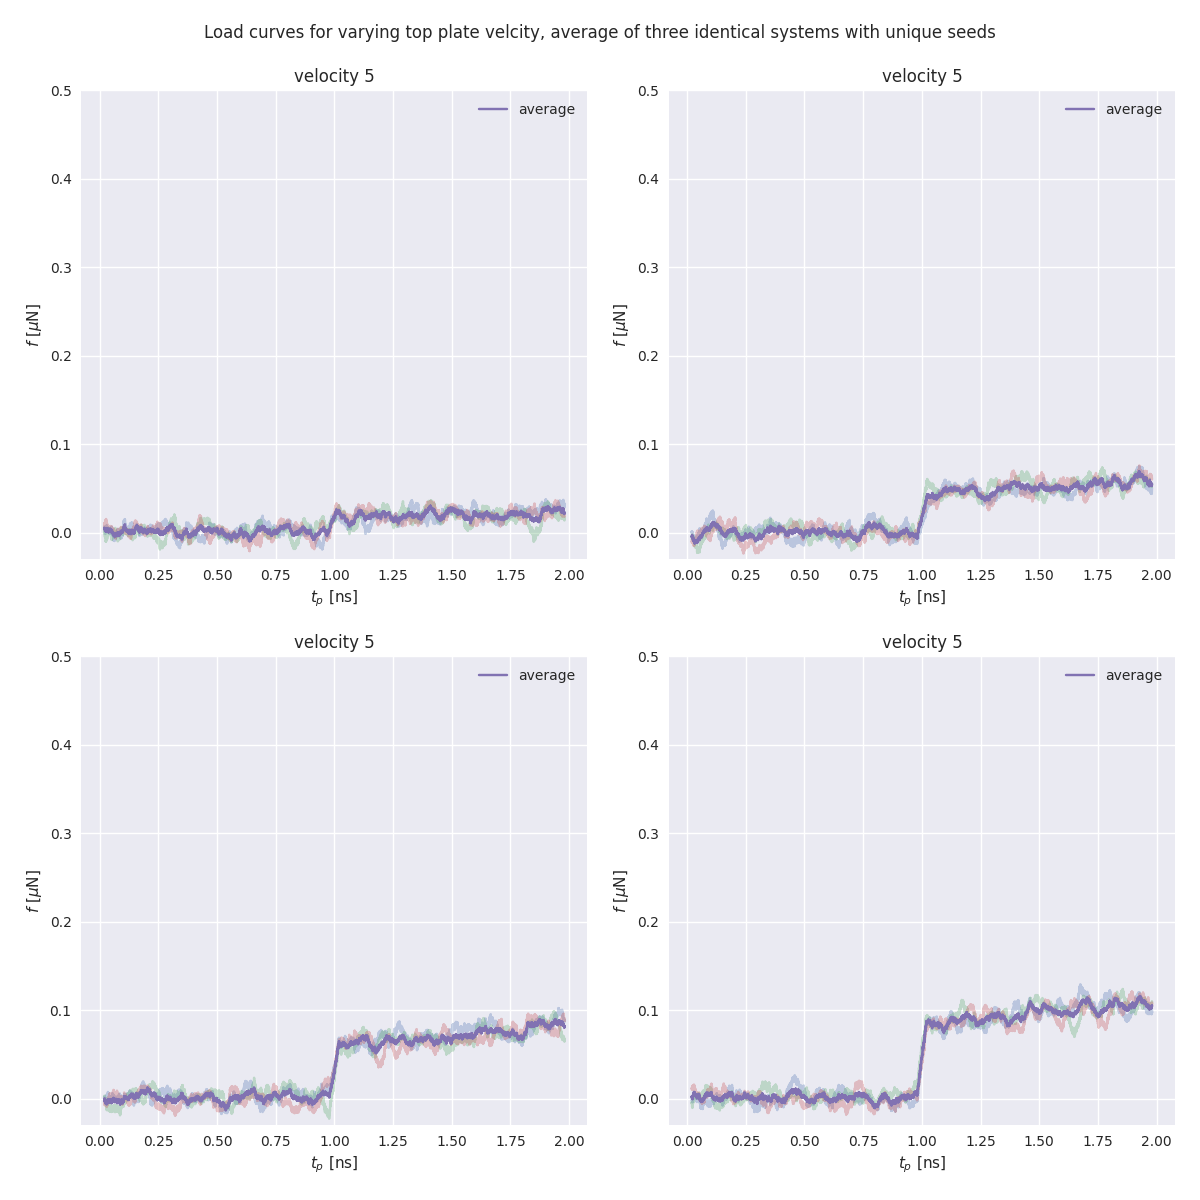
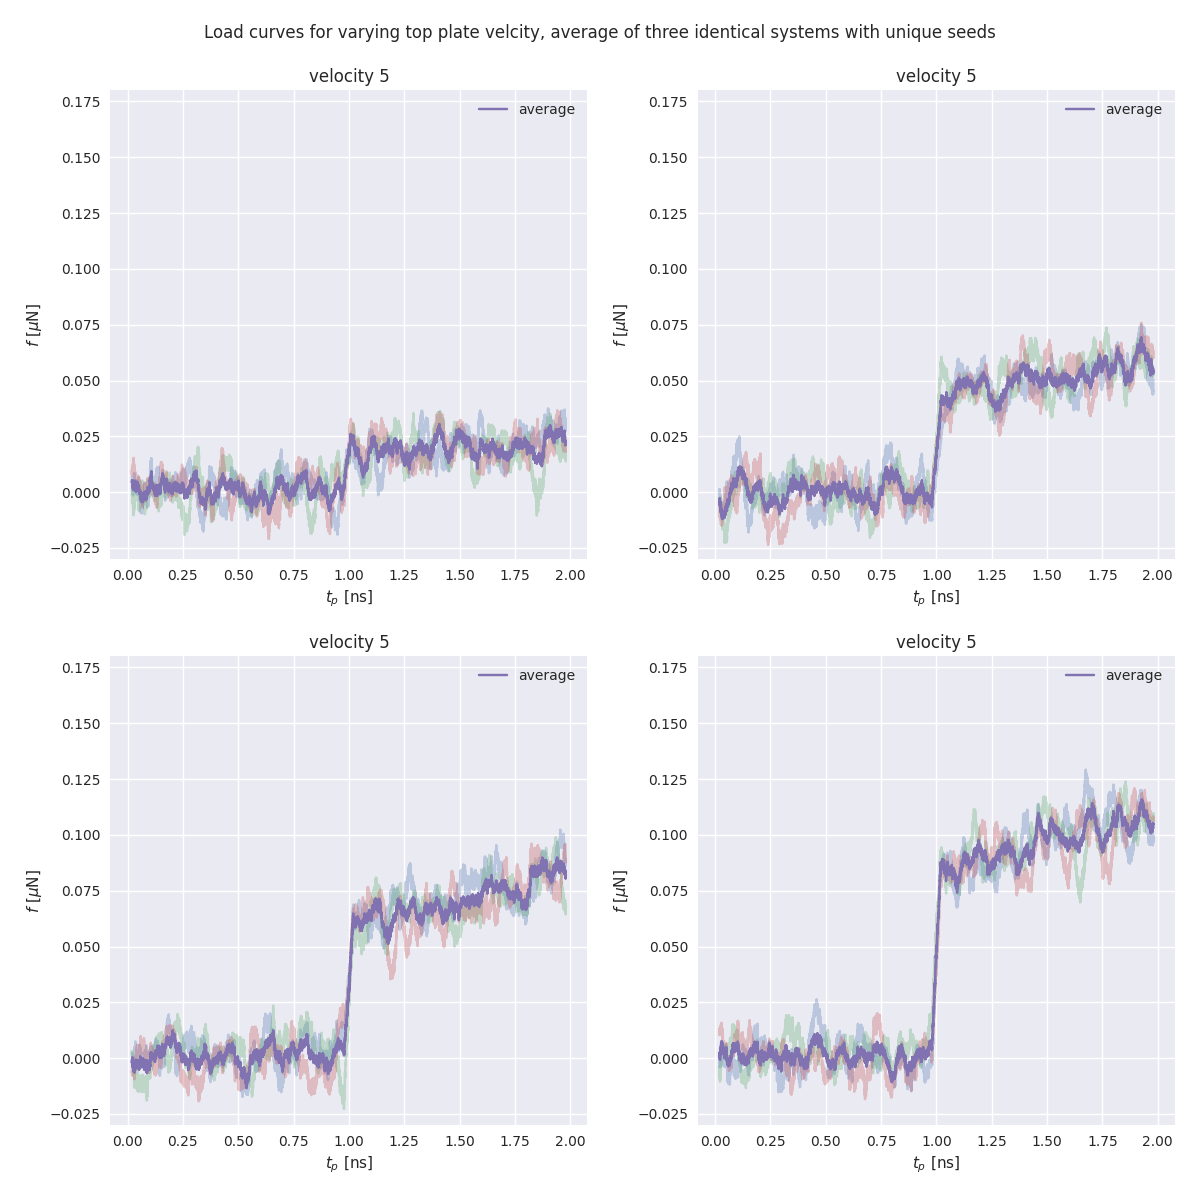
plot adjustment

diff --git a/python/plot/plot_load_curves.py b/python/plot/plot_load_curves.py
@@ -488,7 +488,7 @@ def load_vs_normal_force():
             axs[i].plot(load_curves_mean[0,:,0], load_curves_mean[0,:,1], label=f'average')
             axs[i].legend()
             #axs[1].plot(timeframes, height)
-            axs[i].set_ylim([-0.03, 0.5])
+            axs[i].set_ylim([-0.03, 0.18])
             axs[i].set_xlabel(r"$t_p$ [ns]")
             axs[i].set_ylabel(r"$f$ [$\mu$N]")
             axs[i].set_title(f'velocity {vel}')
